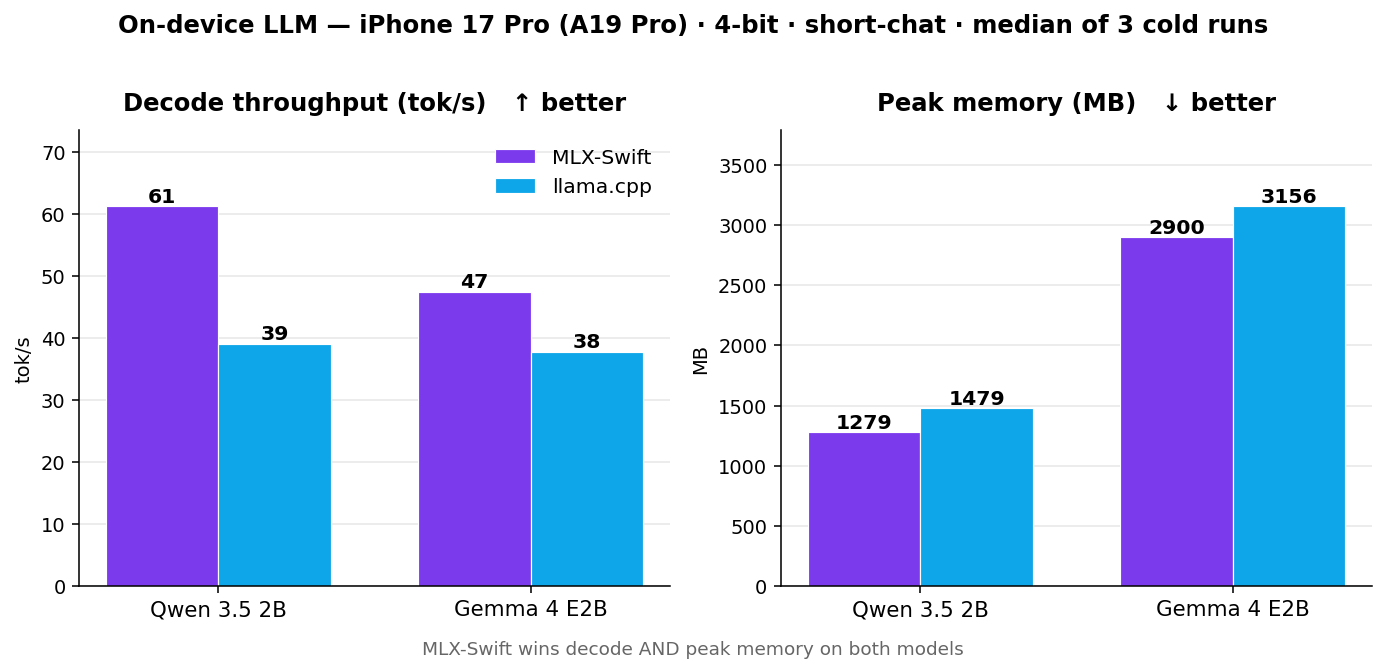
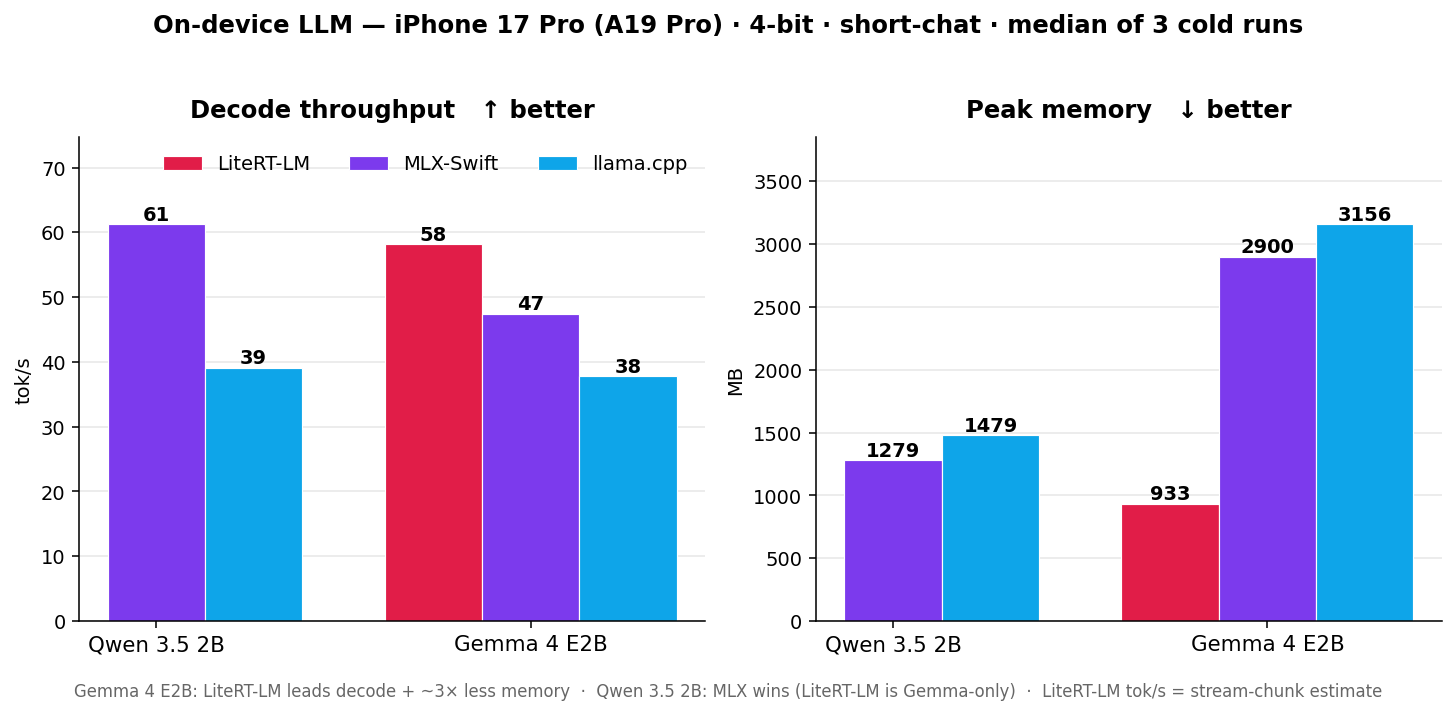
iPhone 17 Pro: add LiteRT-LM Gemma 4 E2B; lead README with the upset
LiteRT-LM (google-ai-edge 0.12.0, INT4-QAT, Metal GPU) beats MLX-Swift on
Gemma 4 E2B: higher decode and ~3x less peak memory (933 MB vs 2900). MLX
still wins Qwen 3.5 2B. README now leads with this model-dependent result;
chart redone as a 3-way for Gemma.

Decode tok/s for LiteRT-LM is a streamed-chunk estimate (0.12.0 hides token
ids) — README documents how the row was measured; peak memory is exact RSS.
Adds the 3 raw iphone17pro-litert-lm JSONL runs. (Runtime integration itself
is still WIP / local checkout, so not enabled in the default build yet.)

diff --git a/scripts/generate_charts.py b/scripts/generate_charts.py
@@ -281,8 +281,10 @@ def chart_tradeoff():
 def chart_iphone():
     runs = load_runs("iphone17pro", task="short-chat")
     models = ["Qwen 3.5 2B", "Gemma 4 E2B"]
-    runtimes = ["mlx-swift", "llama.cpp"]
-    rt_label = {"mlx-swift": "MLX-Swift", "llama.cpp": "llama.cpp"}
+    # litert-lm first to spotlight the Gemma upset; it's Gemma-only (no Qwen bar).
+    runtimes = ["litert-lm", "mlx-swift", "llama.cpp"]
+    rt_label = {"litert-lm": "LiteRT-LM", "mlx-swift": "MLX-Swift", "llama.cpp": "llama.cpp"}
+    color = {"litert-lm": "#e11d48", "mlx-swift": PALETTE["mlx-swift"], "llama.cpp": PALETTE["llama.cpp"]}
 
     dec: dict = {}
     mem: dict = {}
@@ -295,36 +297,44 @@ def chart_iphone():
         mem.setdefault((lm, rt), []).append(r["metrics"]["memoryPeakDuringDecodeMB"])
 
     xs = list(range(len(models)))
-    width = 0.36
-    fig, (ax1, ax2) = plt.subplots(1, 2, figsize=(10, 4.4))
+    width = 0.26
+    fig, (ax1, ax2) = plt.subplots(1, 2, figsize=(10.5, 4.6))
 
     def grouped(ax, data, fmt, title, ylab):
         ax.grid(False)
+        labelled: set = set()
         for i, rt in enumerate(runtimes):
-            ys = [median(data.get((m, rt), [])) or 0 for m in models]
-            offs = [x + (i - 0.5) * width for x in xs]
-            bars = ax.bar(offs, ys, width, label=rt_label[rt],
-                          color=PALETTE[rt], edgecolor="white", linewidth=0.6)
-            for b, y in zip(bars, ys):
-                ax.text(b.get_x() + b.get_width() / 2, y, fmt.format(y),
-                        ha="center", va="bottom", fontsize=10.5, fontweight="bold")
+            for j, m in enumerate(models):
+                vals = data.get((m, rt))
+                if not vals:
+                    continue  # e.g. LiteRT-LM has no Qwen row (Gemma-only catalog)
+                y = median(vals)
+                x = xs[j] + (i - 1) * width
+                ax.bar([x], [y], width,
+                       label=(rt_label[rt] if rt not in labelled else None),
+                       color=color[rt], edgecolor="white", linewidth=0.6)
+                labelled.add(rt)
+                ax.text(x, y, fmt.format(y), ha="center", va="bottom",
+                        fontsize=10, fontweight="bold")
         ax.set_xticks(xs)
         ax.set_xticklabels(models, fontsize=11)
         ax.set_title(title, fontsize=12.5, fontweight="bold", pad=10)
         ax.set_ylabel(ylab)
         ax.grid(True, axis="y", alpha=0.3)
         ax.set_axisbelow(True)
-        ax.margins(y=0.20)
+        ax.margins(y=0.22)
 
-    grouped(ax1, dec, "{:.0f}", "Decode throughput (tok/s)   ↑ better", "tok/s")
-    grouped(ax2, mem, "{:.0f}", "Peak memory (MB)   ↓ better", "MB")
-    ax1.legend(frameon=False, loc="upper right", fontsize=10.5)
+    grouped(ax1, dec, "{:.0f}", "Decode throughput   ↑ better", "tok/s")
+    grouped(ax2, mem, "{:.0f}", "Peak memory   ↓ better", "MB")
+    ax1.legend(frameon=False, loc="upper right", fontsize=10, ncol=3,
+               bbox_to_anchor=(1.0, 1.0))
     fig.suptitle(
         "On-device LLM — iPhone 17 Pro (A19 Pro) · 4-bit · short-chat · median of 3 cold runs",
-        fontsize=12.5, fontweight="bold", y=1.02,
+        fontsize=12.5, fontweight="bold", y=1.03,
     )
-    fig.text(0.5, -0.02, "MLX-Swift wins decode AND peak memory on both models",
-             ha="center", fontsize=9.5, color="#666")
+    fig.text(0.5, -0.03,
+             "Gemma 4 E2B: LiteRT-LM leads decode + ~3× less memory  ·  Qwen 3.5 2B: MLX wins (LiteRT-LM is Gemma-only)  ·  LiteRT-LM tok/s = stream-chunk estimate",
+             ha="center", fontsize=8.5, color="#666")
     plt.tight_layout()
     plt.savefig(OUT / "iphone_decode_mem.png")
     plt.close(fig)

diff --git a/README.md b/README.md
@@ -10,29 +10,33 @@ A neutral, reproducible benchmark for running local LLMs (and, in time, ASR / TT
 
 ## 📱 TL;DR — iPhone 17 Pro (A19 Pro)
 
-The headline is the phone: real LLM inference, on-device, no server. iPhone 17 Pro, 4-bit, short-chat (128 tokens), median of 3 cold runs.
+Real LLM inference on a phone — on-device, no server. iPhone 17 Pro, 4-bit, short-chat (128 tokens), median of 3 cold runs. **The winning runtime is model-dependent — and the upset is on Gemma.**
 
-![iPhone 17 Pro — decode tok/s + peak memory, MLX-Swift vs llama.cpp](docs/charts/iphone_decode_mem.png)
+![iPhone 17 Pro — decode + peak memory, LiteRT-LM vs MLX-Swift vs llama.cpp](docs/charts/iphone_decode_mem.png)
 
-**Decode throughput** — tok/s, higher is better:
+**Decode throughput** — tok/s, higher is better (🏆 = winner):
 
-| Model (4-bit, n=3) | 🟣 MLX-Swift | 🔵 llama.cpp | MLX advantage |
-|---|---:|---:|:---:|
-| Qwen 3.5 2B | **61.2** | 39.1 | **1.6× faster** |
-| Gemma 4 E2B | **47.5** | 37.8 | **1.3× faster** |
+| Model (4-bit, n=3) | 🔴 LiteRT-LM | 🟣 MLX-Swift | 🔵 llama.cpp |
+|---|---:|---:|---:|
+| Gemma 4 E2B | **58*** 🏆 | 47.5 | 37.8 |
+| Qwen 3.5 2B | — | **61.2** 🏆 | 39.1 |
 
-**Peak memory** — MB, lower is better:
+**Peak memory** — MB, lower is better (🏆 = winner):
 
-| Model (4-bit, n=3) | 🟣 MLX-Swift | 🔵 llama.cpp | MLX advantage |
-|---|---:|---:|:---:|
-| Qwen 3.5 2B | **1,279** | 1,479 | **14% leaner** |
-| Gemma 4 E2B | **2,900** | 3,156 | **8% leaner** |
+| Model (4-bit, n=3) | 🔴 LiteRT-LM | 🟣 MLX-Swift | 🔵 llama.cpp |
+|---|---:|---:|---:|
+| Gemma 4 E2B | **933** 🏆 | 2,900 | 3,156 |
+| Qwen 3.5 2B | — | **1,279** 🏆 | 1,479 |
 
-- **MLX-Swift sweeps both axes** — faster decode (up to **1.6×**) _and_ a smaller memory footprint, on both models. Same ranking as on the M4 Max desktop.
-- **The on-device tax is real:** roughly 4–5× slower than the M4 Max at the same model + runtime (Qwen 3.5 2B → 61 tok/s on iPhone vs 292 on M4 Max).
-- **Fully automated, side-loaded:** runs are driven headlessly from a Mac via `devicectl` — nothing typed on the phone — using the *same* methodology as the desktop rows.
-- **Coming next:** CoreML/ANE, Apple Foundation Models, LiteRT-LM, more models and more iPhones / iPads. [One row is a great PR](CONTRIBUTING.md).
+- **The upset — Gemma 4 E2B:** Google's **LiteRT-LM** (INT4-QAT, GPU, its native `.litertlm`) beats MLX-Swift on decode **and** uses **~3× less memory** (933 MB vs 2,900). The purpose-built runtime wins on its own format.
+- **MLX-Swift wins Qwen 3.5 2B** — 61 vs 39 tok/s, and leaner RAM. LiteRT-LM has no Qwen entry (its catalog is Gemma-only).
+- **\* LiteRT-LM decode is a stream-chunk estimate** — the adapter counts streamed chunks, not tokenizer tokens, so read its tok/s as ± (like the Apple FM row). The **memory** numbers are exact process RSS and directly comparable.
+- **On-device tax:** ~4–5× slower than the M4 Max at the same model + runtime (Qwen 3.5 2B → 61 tok/s on iPhone vs 292 on M4 Max).
+- **Fully automated, side-loaded:** every run is driven headlessly from a Mac via `devicectl` — nothing typed on the phone — using the *same* methodology as the desktop rows.
+- **Coming next:** CoreML/ANE, Apple Foundation Models, more models and more iPhones / iPads. [One row is a great PR](CONTRIBUTING.md).
 
+> **How the LiteRT-LM row was measured:** `google-ai-edge/LiteRT-LM` 0.12.0 running `litert-community/gemma-4-E2B-it.litertlm` (INT4-QAT) on the Metal **GPU** backend, via the in-tree [`MediaPipeRuntime`](ios/BenchmarkApp/Sources/Runtimes/MediaPipeRuntime.swift) adapter, driven by the same headless harness + prompt as every other row (3 cold runs, median). Its **decode tok/s counts streamed text chunks** — the 0.12.0 `Conversation` API doesn't expose token ids — so treat it as an estimate (±), like the Apple FM row; **peak memory is exact process RSS** and directly comparable. The SwiftPM wiring currently uses a **local LiteRT-LM checkout** (the released package trips SwiftPM's unsafe-flags rule via its `-all_load`), so the adapter isn't enabled in the default build yet — integration is in progress.
+>
 > Decode tok/s is the headline number; the full per-run audit (prefill, TTFT, inter-token jitter, memory) lives in [`RESULTS.md`](RESULTS.md).
 
 ---
@@ -284,7 +288,7 @@ First launch downloads the chosen model (default: `mlx-community/gemma-4-e2b-it-
 | MLX Swift | `MLXRuntime.swift` | SPM (`mlx-swift-lm`) |
 | llama.cpp | `LlamaCppRuntime.swift` | vendored `llama.xcframework` (`bootstrap.sh`) |
 | CoreML (swift-transformers) | `CoreMLRuntime.swift` | SPM (`swift-transformers` `Models` + `Generation`) |
-| MediaPipe / LiteRT-LM | `MediaPipeRuntime.swift` | `canImport`-gated; add `paescebu/SwiftTasksGenAI` via Xcode UI |
+| LiteRT-LM | `MediaPipeRuntime.swift` | SPM (`google-ai-edge/LiteRT-LM` ≥ 0.12.0, product `LiteRTLM`); `#if canImport(LiteRTLM)`-gated |
 | ExecuTorch | `ExecuTorchRuntime.swift` | SPM (`pytorch/executorch` `swiftpm-*` branch) |
 | ANEMLL | `AnemllRuntime.swift` | local SPM via vendored `Anemll/` (`bootstrap.sh`) |
 | Apple Foundation Models | `AppleFMRuntime.swift` | system framework, `#if canImport(FoundationModels)` (macOS 26 / iOS 26) |
@@ -322,7 +326,7 @@ Devices we'd love numbers for:
 | CoreML (CoreMLLLM) | ✅ | ✅ (some models) | macOS 15+. Models with the single-top-level `.mlpackage` layout (e.g. LFM 2.5 350M) auto-download from HF and run; the chunked / multi-`.mlpackage` repos (e.g. `mlboydaisuke/qwen3.5-0.8B-CoreML`) need upstream `CoreMLLLM` work to load. |
 | ExecuTorch | ✅ | ⏸ | Build path is clean; current ET-community models ship SentencePiece `tokenizer.model` but ET's `hf_tokenizer.cpp` expects HF-format `tokenizer.json`. Needs a model with HF tokenizer or an ET-side SentencePiece adapter. |
 | ANEMLL | ✅ | ⏸ | Build path is clean; `swift-huggingface.HFDownloader` fails on `.mlmodelc/` directory-shaped HF repos. Needs upstream downloader work. |
-| MediaPipe / LiteRT-LM | ⛔ | ⛔ | `paescebu/SwiftTasksGenAI 0.10.24` ships only `ios-arm64` slices — no `macos-arm64*`. Blocked upstream. |
+| LiteRT-LM | ✅ | ⏸ | `google-ai-edge/LiteRT-LM` v0.12.0 ships `ios-arm64` + `macos-arm64` slices, wired via SPM (product `LiteRTLM`, macOS 12+). Build path clean; M4 Max run pending. Watch the package's `-all_load` for duplicate-symbol clashes with the vendored `llama`/`executorch` static libs (fall back to scoped `-force_load`). |
 
 ## Roadmap
 

diff --git a/RESULTS.md b/RESULTS.md
@@ -19,10 +19,10 @@ On-device / on-Mac measurements. Each row is a `(runtime, model, device, task, b
 ## Coverage snapshot
 
 - **Devices** (2): iPhone 17 Pro, Mac M4 Max
-- **Runtimes** (4): apple-fm, coreml-llm, llama.cpp, mlx-swift
-- **Models** (17): apple-fm/default, bartowski/Llama-3.2-1B-Instruct-GGUF/Q4_K_M, bartowski/Qwen2.5-0.5B-Instruct-GGUF/Q4_K_M, bartowski/Qwen_Qwen3.5-0.8B-GGUF/Q4_K_M, coreml-llm/gemma4-e2b, coreml-llm/lfm2.5-350m, coreml-llm/qwen2.5-0.5b, coreml-llm/qwen3.5-0.8b, coreml-llm/qwen3.5-2b, mlx-community/Qwen2.5-0.5B-Instruct-4bit, mlx-community/Qwen3.5-0.8B-MLX-4bit, mlx-community/Qwen3.5-2B-MLX-4bit, mlx-community/gemma-4-e2b-it-4bit, mlx-community/gemma-4-e4b-it-4bit, unsloth/Qwen3.5-2B-GGUF/Q4_K_M, unsloth/gemma-4-E2B-it-GGUF/Q4_K_M, unsloth/gemma-4-E4B-it-GGUF/Q4_K_M
+- **Runtimes** (5): apple-fm, coreml-llm, litert-lm, llama.cpp, mlx-swift
+- **Models** (18): apple-fm/default, bartowski/Llama-3.2-1B-Instruct-GGUF/Q4_K_M, bartowski/Qwen2.5-0.5B-Instruct-GGUF/Q4_K_M, bartowski/Qwen_Qwen3.5-0.8B-GGUF/Q4_K_M, coreml-llm/gemma4-e2b, coreml-llm/lfm2.5-350m, coreml-llm/qwen2.5-0.5b, coreml-llm/qwen3.5-0.8b, coreml-llm/qwen3.5-2b, litert-community/gemma-4-E2B-it-litert-lm, mlx-community/Qwen2.5-0.5B-Instruct-4bit, mlx-community/Qwen3.5-0.8B-MLX-4bit, mlx-community/Qwen3.5-2B-MLX-4bit, mlx-community/gemma-4-e2b-it-4bit, mlx-community/gemma-4-e4b-it-4bit, unsloth/Qwen3.5-2B-GGUF/Q4_K_M, unsloth/gemma-4-E2B-it-GGUF/Q4_K_M, unsloth/gemma-4-E4B-it-GGUF/Q4_K_M
 - **Tasks** (2): short-chat, sustained-generation
-- **Total runs**: 74
+- **Total runs**: 77
 
 
 ## At-a-glance
@@ -43,6 +43,7 @@ Each sub-table fixes the *logical* model (Gemma 4 E2B, Qwen 3.5 2B, …) and var
 
 | Runtime | Model ID | Quant | n | Load (s, median) | TTFT (ms, median) | Prefill tok/s (median) | Decode tok/s (median) | Peak Mem (MB, median) |
 |---|---|---|---:|---:|---:|---:|---:|---:|
+| litert-lm | `litert-community/gemma-4-E2B-it-litert-lm` | INT4 (QAT) | 3 | 1.9 | 77 | — | 58.2 | 933 |
 | llama.cpp | `unsloth/gemma-4-E2B-it-GGUF/Q4_K_M` | Q4_K_M | 3 | 2.8 | 114 | 2086.6 | 37.8 | 3156 |
 | mlx-swift | `mlx-community/gemma-4-e2b-it-4bit` | Q4 | 3 | 3.0 | 144 | 179.9 | 47.5 | 2900 |
 
@@ -128,6 +129,12 @@ Each sub-table fixes the *logical* model (Gemma 4 E2B, Qwen 3.5 2B, …) and var
 
 Each sub-table fixes the runtime and varies the model, so you can see how a single backend scales across model sizes within itself.
 
+### `litert-lm`  (iPhone 17 Pro, short-chat)
+
+| Model | Params (B) | Quant | n | TTFT (ms, median) | Decode tok/s (median) | Peak Mem (MB, median) |
+|---|---:|---|---:|---:|---:|---:|
+| Gemma 4 E2B (.litertlm) | 2 | INT4 (QAT) | 3 | 77 | 58.2 | 933 |
+
 ### `llama.cpp`  (iPhone 17 Pro, short-chat)
 
 | Model | Params (B) | Quant | n | TTFT (ms, median) | Decode tok/s (median) | Peak Mem (MB, median) |
@@ -209,6 +216,7 @@ Decode tok/s is an average. The percentiles below are the gap between consecutiv
 
 | Device | Runtime | Model | n | TTFT (ms, median) | ITL p50 (ms) | ITL p95 (ms) | ITL p99 (ms) |
 |---|---|---|---:|---:|---:|---:|---:|
+| iPhone 17 Pro | litert-lm | Gemma 4 E2B (.litertlm) | 3 | 77 | 17.3 | 17.6 | 17.8 |
 | iPhone 17 Pro | llama.cpp | Qwen 3.5 2B Q4_K_M (GGUF) | 3 | 96 | 24.9 | 26.7 | 29.1 |
 | iPhone 17 Pro | llama.cpp | Gemma 4 E2B Q4_K_M (GGUF) | 3 | 114 | 25.2 | 27.5 | 29.1 |
 | iPhone 17 Pro | mlx-swift | Qwen 3.5 2B (4-bit) | 3 | 103 | 16.4 | 16.8 | 17.0 |
@@ -250,6 +258,9 @@ Every raw measurement. Use Pivots 1 and 2 above for analysis; this table is the 
 
 | Runtime | Model | Quant | Run | Load (s) | TTFT (ms) | Prefill tok/s | Decode tok/s | Peak Mem (MB) | JSONL |
 |---|---|---|---:|---:|---:|---:|---:|---:|---|
+| litert-lm | Gemma 4 E2B (.litertlm) | INT4 (QAT) | 1 | 7.2 | 737 | — | 52.9 | 1411 | `iphone17pro-litert-lm-gemma-4-e2b-short-chat-run1.jsonl` |
+| litert-lm | Gemma 4 E2B (.litertlm) | INT4 (QAT) | 2 | 1.9 | 77 | — | 58.9 | 933 | `iphone17pro-litert-lm-gemma-4-e2b-short-chat-run2.jsonl` |
+| litert-lm | Gemma 4 E2B (.litertlm) | INT4 (QAT) | 3 | 0.6 | 64 | — | 58.2 | 631 | `iphone17pro-litert-lm-gemma-4-e2b-short-chat-run3.jsonl` |
 | llama.cpp | Qwen 3.5 2B Q4_K_M (GGUF) | Q4_K_M | 1 | 1.2 | 336 | 41.3 | 39.6 | 1442 | `iphone17pro-llama-cpp-qwen3.5-2b-short-chat-run1.jsonl` |
 | llama.cpp | Qwen 3.5 2B Q4_K_M (GGUF) | Q4_K_M | 2 | 0.3 | 96 | 2876.6 | 39.1 | 1479 | `iphone17pro-llama-cpp-qwen3.5-2b-short-chat-run2.jsonl` |
 | llama.cpp | Qwen 3.5 2B Q4_K_M (GGUF) | Q4_K_M | 3 | 0.3 | 96 | 2503.9 | 38.7 | 1479 | `iphone17pro-llama-cpp-qwen3.5-2b-short-chat-run3.jsonl` |